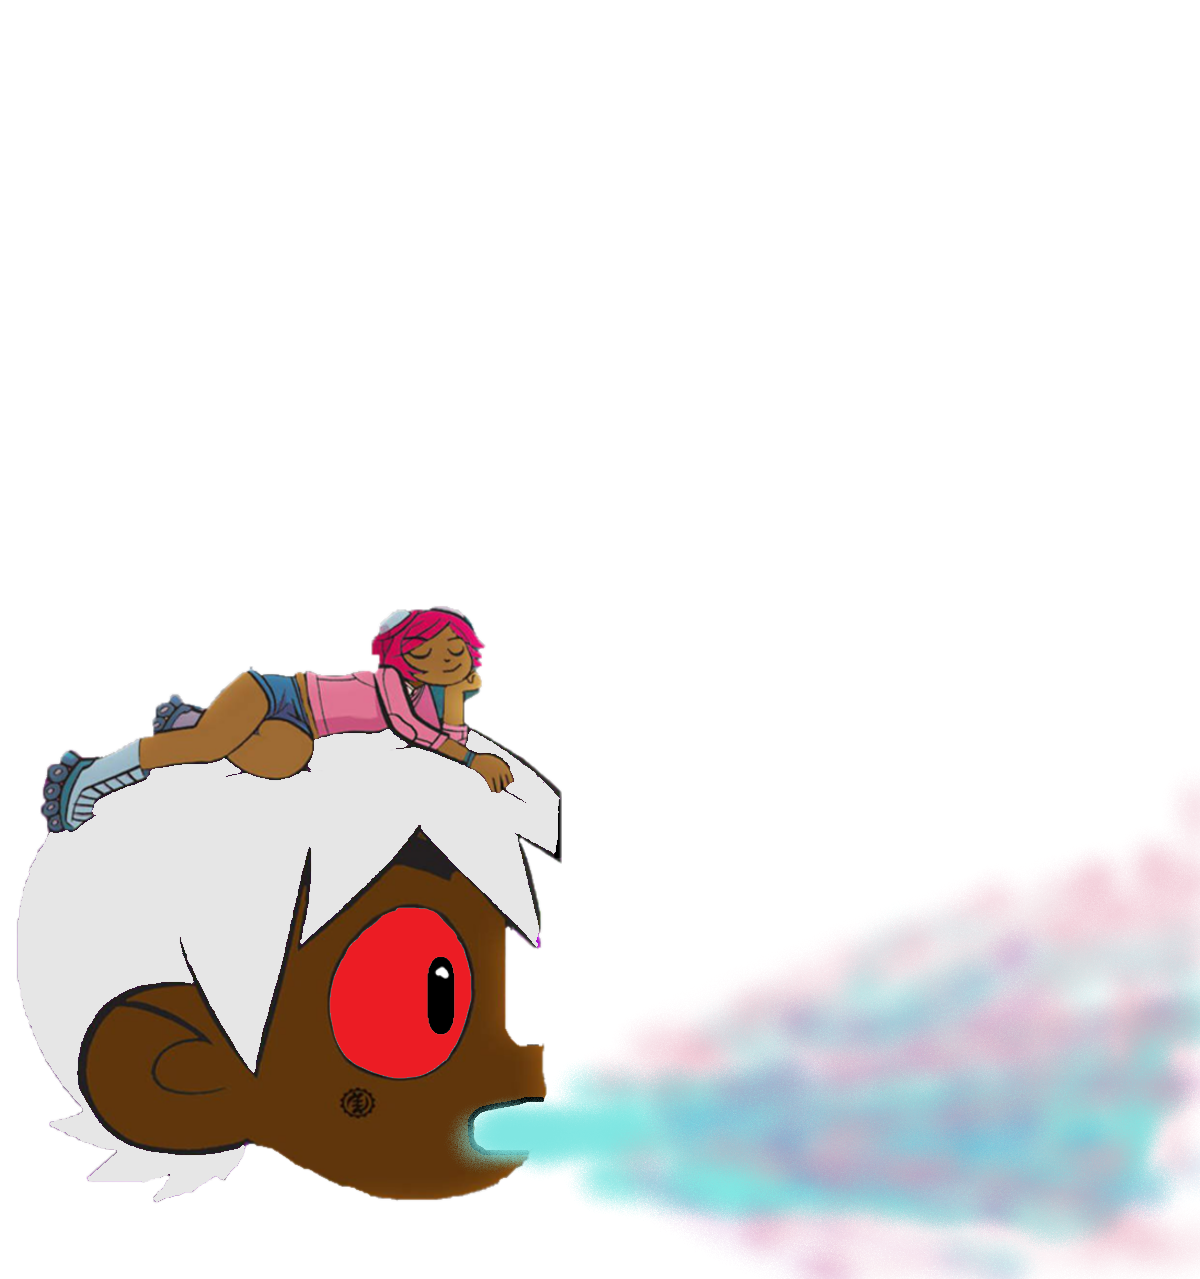
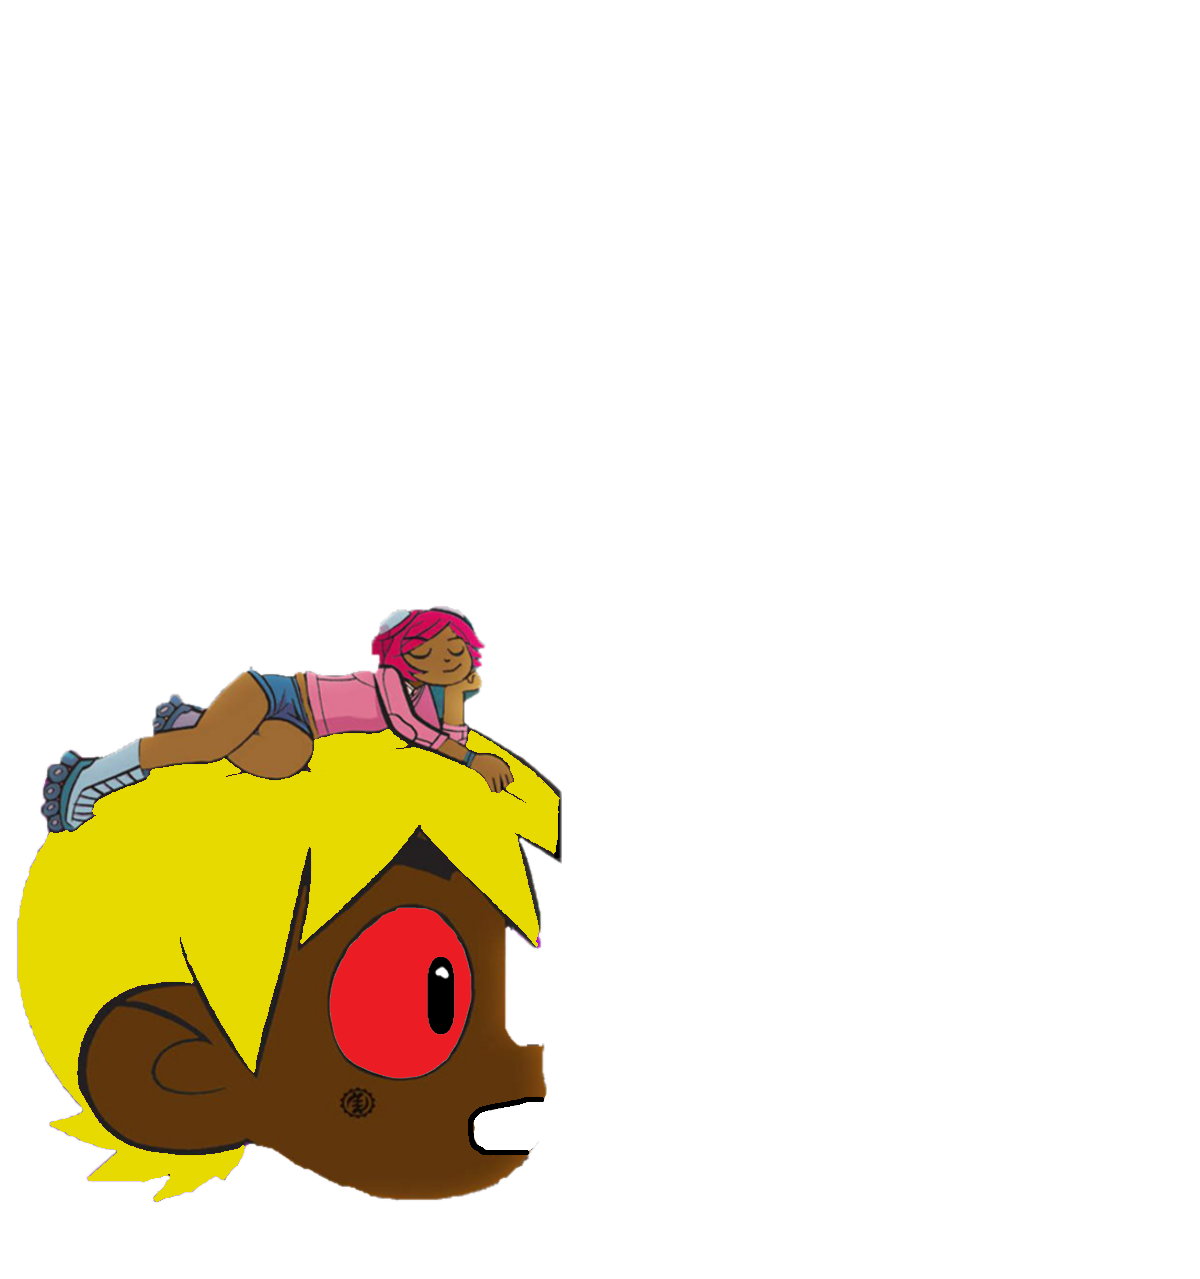
i am currently trying something so far it is straight up not going well

Changed region(s): [[0.37, 0.6403, 1.0, 1.0], [0.0, 0.5489, 0.4625, 0.9453], [0.9867, 0.6099, 1.0, 0.6403]]

diff --git a/sketch.js b/sketch.js
@@ -1,4 +1,5 @@
 let uzi;
+var time = 0;
 let br;
 let x = 200;
 let y = 200;
@@ -8,7 +9,7 @@ let x1 = 1650;
 let y1 = 100;
 let moving = 0;
 
-
+let isSicko = false;
 let enemyMove = true;
 let uziVert = true;
 let movingLeft = false;
@@ -23,6 +24,12 @@ function preload() {
   vert = loadImage("assets/uzishoot.png");
   money = loadImage("assets/money.png");
   demon = loadImage("assets/demon.png");
+  s1 = loadImage("assets/uzishoot1.png");
+  s2 = loadImage("assets/uzishoot2.png");
+  s3 = loadImage("assets/uzishoot3.png");
+  s4 = loadImage("assets/uzishoot4.png");
+  s5 = loadImage("assets/uzishoot5.png");
+  s6 = loadImage("assets/uzishoot6.png");
 }
 
 function setup(){
@@ -83,6 +90,9 @@ function keyPressed() {
     uziVert = false;
     
   }
+  if (key === "z") {
+    isSicko = true;
+  }
 }
 
 function keyReleased() {
@@ -101,7 +111,11 @@ function keyReleased() {
     uziVert = true;
     shot = 0;
   }
+  if (key === "z") {
+    isSicko = false;
+  }
 }
+
 
 function uziAttack() {
   imageMode(CENTER);
@@ -111,10 +125,6 @@ function uziAttack() {
     x += 15;
 
   }
-  
-
-
-
 }
 
 function enemies() {
@@ -138,6 +148,39 @@ function enemiesMove() {
     y1 = random(100, 700);
     x1 = 1650;
     
+  if (isSicko) {
+    if (millis() > time + 200) {
+      time = millis();
+      image(s1, x, y, 350, 350);
+        
+      }
+    if (millis() > time + 200) {
+      time = millis();
+      image(s2, x, y, 350, 350);
+        
+      }
+    if (millis() > time + 200) {
+      time = millis();
+      image(s3, x, y, 350, 350);
+        
+      }
+    if (millis() > time + 200) {
+      time = millis();
+      image(s4, x, y, 350, 350);
+        
+      }
+    if (millis() > time + 200) {
+      time = millis();
+      image(s5, x, y, 350, 350);
+        
+      }
+    if (millis() > time + 200) {
+      time = millis();
+      image(s6, x, y, 350, 350);
+        
+      }
+    
+    }
   }
  
   
